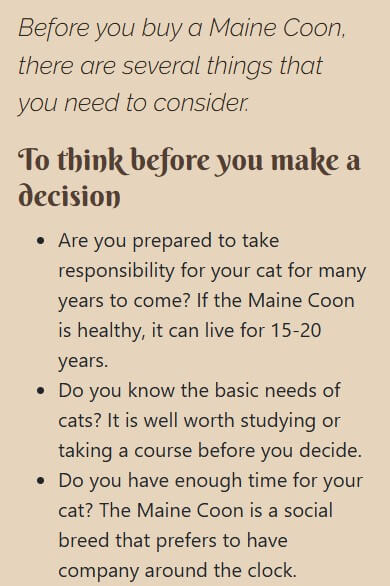
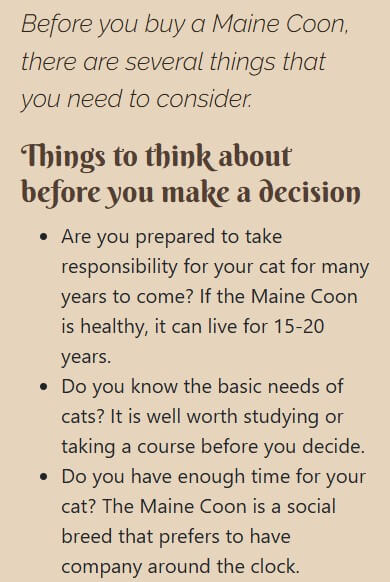
Add information to the testing section of the README file

diff --git a/before_cat.html b/before_cat.html
@@ -86,7 +86,7 @@
           <div class="row justify-content-center">
             <div class="col-12 col-lg-6">
               <p class="lead"><em>Before you buy a Maine Coon, there are several things that you need to consider.</em></p>
-              <h2>To think before you make a decision</h2>
+              <h2>Things to think about before you make a decision</h2>
               <ul>
                 <li>Are you prepared to take responsibility for your cat for many years to come? If the Maine Coon is
                   healthy, it can live for 15-20 years.</li>

diff --git a/README.md b/README.md
@@ -21,7 +21,7 @@
     * [Logo, Icons, Images and Text](#logo-icons-images-and-text)
       * [Logo](#logo)
       * [Icons](#icons)
-      * [Images](#images)
+      * [Images and Text](#images-and-text)
   * [Features](#features)
     * [Existing Features](#existing-features)
       * [Header](#header)
@@ -39,6 +39,13 @@
   * [Testing](#testing)
     * [User Story Testing](#user-story-testing)
     * [Manual Testing](#manual-testing)
+      * [Test links - navbar](#test-links---navbar)
+      * [Test icons/link - footer](#test-iconslink---footer)
+      * [Test link/button on Home Page](#test-linkbutton---home-page)
+      * [Test links Before You Buy A Cat](#test-links---before-you-buy-a-cat-page)
+      * [Test links About The Maine Coon](#test-links---about-the-maine-coon-page)
+      * [Test form - Contact Page](#test-form---contact-page)
+      * [Test form - Newsletter Page](#test-form---newsletter-page)
     * [Bugs](#bugs)
     * [Validation](#validation)
       * [HTML](#html)
@@ -51,8 +58,8 @@
   * [Deployment](#deployment)
 
   * [Credits](#credits)
-    * [Content](#content)
-    * [Media And Images](#media-and-images)
+    * [Facts](#facts)
+    * [Images](#images)
 
 ## About 
 [(Back to top)](#index--table-of-contents)
@@ -163,6 +170,7 @@ Maine Coon Facts is a site where you will find
   
   </details>
 
+
   ### Colors
 
   I wanted to use natural colors. To get an idea of what colors to use, I uploaded a picture of my Maine Coon Sunbeam to [Shutterstock's Color Palette Generator](https://www.shutterstock.com/sv/colors/color-palette-generator). In the image below, you can see the color palette that was generated after my image.
@@ -187,6 +195,7 @@ Maine Coon Facts is a site where you will find
   * Dark brown - #523E33 (on headings)
   * Light brown - #6F573C (on headings)
 
+
   ### Fonts
 
   To figure out which fonts to use, I looked around a bit on the internet for fonts. I then found [Easil's “The Ultimate Free Font Pairing List”](https://about.easil.com/free-font-pairing-guide-templates/). Here I looked through the different options that were available. I came to the conclusion that I wanted a slightly "funnier" font that stands out on the headings and an easy-to-read font on other text. The option that stuck with me was the Berkshire Swash paired with Raleway or Oswald. on headings and Raleway or Oswald on other text. The final choice was to use Berkshire Swash on all the headings and Raleway on all the other text The fonts can be found at [Google Fonts](https://fonts.google.com/).
@@ -194,6 +203,7 @@ Maine Coon Facts is a site where you will find
   [Berkshire Swash](https://fonts.google.com/specimen/Berkshire+Swash)
 
   [Raleway](https://fonts.google.com/specimen/Raleway)
+
 
   ### Logo, Icons, Images and Text
 
@@ -212,17 +222,14 @@ Maine Coon Facts is a site where you will find
   * [Facebook](https://fontawesome.com/search?q=facebook&o=r&m=free) 
   * [Instagram](https://fontawesome.com/search?q=instagram&o=r&m=free)
 
-  #### Images
+  #### Images and Text
 
   Most images are downloaded from [Pixabay](https://pixabay.com/). The exceptions are the image on the home page which is my own (an image of my Maine Coon Sunbeam) and the image on the About The Maine Coon page which is from [Free Images](https://www.freeimages.com/). A compilation of images and owners/photographers can be found under Credits.
 
   The images have been modified to fit the website (they have been compressed to take up less space and have been resized to fit it).
 
-  #### Text
+  I have found the information for the fact-rich pages on a couple of Swedish websites about the Maine Coon (See Credits). I have translated this information into English (using Google Translate to make it more accurate).
 
-  I have found the information for the fact-rich pages on a couple of Swedish websites about the Maine Coon. I have translated this information into English (using Google Translate to make it more accurate).
-
-  The text on the Before You Buy A Cat page comes from [Maine Coon Katten](https://mainecoonkatten.se/att-t-nka-p/) and the text on About The Maine Coon page comes from [Purina](https://www.purina.se/hitta-ett-husdjur/kattraser/maine-coon). 
 
 ## Features
 [(Back to top)](#index--table-of-contents)
@@ -251,6 +258,7 @@ Maine Coon Facts is a site where you will find
 
   In order to solve so that the menu toggles on small screens, I am using a JavaScript here. (The JavaScript was used in the Boardwalk Games Walkthrough)
 
+
   #### Footer
 
   The footer consists of two icons (one for Facebook and one for Instagram) and a SIGN UP FOR OUR NEWSLETTER link (goes to a page where you, via a form, can sign up for the page's newsletter).
@@ -260,6 +268,7 @@ Maine Coon Facts is a site where you will find
   On large screens (1024 px or more), the icons and link have a hover effect (their color changes). I have chosen to use the same color as in the nav bar.
 
   ![Image of the footer](docs/screenshots/footer_hover.jpg)
+
 
   #### Home Page
 
@@ -293,6 +302,7 @@ Maine Coon Facts is a site where you will find
 
   ![Image of button showing hover effect](docs/screenshots/home_page/home_button_hover.jpg)
 
+
   #### Before You Buy A Cat Page
 
   Before You Buy A Cat page consists of the following parts (besides navbar and footer): header and main.
@@ -321,6 +331,7 @@ Maine Coon Facts is a site where you will find
 
   The section is longer but I have chosen to include only two pictures of it here.
 
+
   #### About The Maine Coon Page
 
   About The Maine Coon page consists of the following parts (besides navbar and footer): header and main.
@@ -344,6 +355,7 @@ Maine Coon Facts is a site where you will find
   ![Image of About The Maine Coon page - Origin section - screens 1024px or larger](docs/screenshots/about_the_mc_page/about_the_mc_main_1024px+.jpg)
 
   After Origin, the other sections follow. But I have chosen to only include images of the first section here.
+
 
   #### Gallery Page
 
@@ -369,6 +381,7 @@ Maine Coon Facts is a site where you will find
 
   The images above show a part of the Gallery page.
 
+
   #### Contact Page
 
   Gallery consists of the following parts (besides navbar and footer): header and main.
@@ -392,6 +405,7 @@ Maine Coon Facts is a site where you will find
   There is a hover effect on the button (on larger screens). When you move the mouse pointer over it, the background and text color changes.
 
   ![Image of Contact page - form - button hover](docs/screenshots/contact_page/button_hover.jpg)
+
 
   #### Newsletter Page
 
@@ -417,6 +431,7 @@ Maine Coon Facts is a site where you will find
 
   ![Image of Newsletter page - form - button hover](docs/screenshots/newsletter_page/button_hover.jpg)
 
+
   ### Features Left To Implement
 
   There are two features that I think could be added to the site in the future.
@@ -428,11 +443,13 @@ Maine Coon Facts is a site where you will find
 ## Technologies Used
 [(Back to top)](#index--table-of-contents)
 
+
 ### Languages
 
 * [HTML5](https://en.wikipedia.org/wiki/HTML)
 * [CSS](https://en.wikipedia.org/wiki/CSS)
 * [JavaScript](https://en.wikipedia.org/wiki/JavaScript)
+
 
 ### Programs And Other Resources
 
@@ -454,8 +471,10 @@ Maine Coon Facts is a site where you will find
   * [Instagram icon](https://fontawesome.com/search?q=instagram&o=r&m=free)
   * [Paw icon](https://fontawesome.com/search?q=paw&o=r&m=free) 
 
+
 ## Testing
 [(Back to top)](#index--table-of-contents)
+
 
 ### User Story Testing
 
@@ -469,14 +488,96 @@ Maine Coon Facts is a site where you will find
 | Contact page and Footer | As a site visitor, I want it to be possible to contact the page owner so that I can get in touch with him/her if I have any questions/opinions. | The site offers a contact form where you can send a message to the site owner. There is also links to social media in the footer (a potential way to contact the site owner). | &check; |
 | Newsletter page | As a Maine Coon owner, I want it to be possible to sign up for a newsletter, where you can find out more about Maine Coons, such as advice and tips. This is to be able to gain as much knowledge as possible about the breed and cat ownership. | In the footer you can click on a Sign up for our newsletter link. The link takes you to a form where you can sign up for the newsletter. | &check; |
 
+
 ### Manual Testing
 
+
+#### Test links - navbar
+
+| Link | Action |
+|------|--------|
+| Logo | When you click on the logo you will be taken to index.html (the Home Page) |
+| BEFORE YOU BUY A CAT | When you click on BEFORE YOU BUY A CAT you will be taken to before_cat.html (Before You Buy A Cat) |
+| ABOUT THE MAINE COON | When you click on ABOUT THE MAINE COON you will be taken to about_the_mc.html (ABbout The Maine Coon) |
+| GALLERY | When you click on GALLERY you will be taken to gallery.html (Gallery) |
+| CONTACT | When you click on CONTACT you will be taken to contact.html (Contact Us) |
+
+The links in the navbar work as they should.
+
+
+#### Test icons/link - footer
+
+| Link | Action |
+|------|--------|
+| Icon Facebook | When you click on the icon, Facebook opens in a new tab or in a new window. |
+| Icon Instagram | When you click on the icon, Instagram opens in a new tab or in a new window. |
+| SIGN UP FOR OUR NEWSLETTER link | When you click on the link, you will be taken to the Newsletter page where, via a form, you can sign up for the newsletter. |
+
+The links in the footer work as they should.
+
+
+#### Test link/button - Home Page
+
+When you click on the link/button on the Home Page, you will be taken to the page where there are more facts about the Maine Coon, that is, on the About The Maine Coon page (about_the_mc.html).
+
+The link/button works as it should.
+
+
+#### Test links - Before You Buy A Cat Page
+
+| Link | Action |
+|------|--------|
+| Before You Make A Decision | When you click on the link, you will be taken to the Things to think about before you make a decision section on the page |
+| Before You Buy A Cat | When you click on the link, you will be taken to the Things to think about before buying section of the page |
+
+The links on the Before You Buy A Cat page are working properly.
+
+
+#### Test links - About The Maine Coon Page
+
+| Link | Action |
+|------|--------|
+| Origin | Link that takes you to the Origin section of the page |
+| Appearance | Link that takes you to the Appearance section of the page |
+|Personality | Link that takes you to the Personality section of the page |
+| Health | Link that takes you to the Health section of the page |
+| Nutrition And Feeding | Link that takes you to the Nutrition And Feeding section of the page |
+| Fur Care | Link that takes you to the Fur Care section of the page |
+| Child Friendliness | Link that takes you to the Child Friendliness section of the page |
+
+The links on the About The Maine Coon Page are working properly. When it comes to the last two links, clicking on them does not take you to exactly the right place on the page (depending on the type of device/screen size used). Something that I assume is due to the page being too short. In any case, the linking itself is correct also for the last two sections.
+
+#### Test form - Contact Page
+
+![Image of Contact page form](docs/screenshots/contact_page/form_768px+.jpg)
+
+If you try to send the form without filling in all the fields, you get an error message (which points to the first field that is not filled in). The error message appears regardless of which field it is that has not been filled in.
+
+![Image of Contact page form - error message - nothing filled out](docs/screenshots/contact_page/test/contact_error_message_full_name.jpg)
+![Image of Contact page form - error message -pointing to email address](docs/screenshots/contact_page/test/contact_error_message_email_address.jpg)
+![Image of Contact page form - error message -pointing to message](docs/screenshots/contact_page/test/contact_error_message_message.jpg)
+
+If you fill in all the fields and click on the Send Message button, you end up on a page (contact_confirmation.html) that shows that the message has been sent.
+
+![Image of Contact confirmation page - message](docs/screenshots/contact_page/test/contact_confirmation.jpg)
+
+#### Test form - Newsletter Page
+
+![Image of Contact page form](docs/screenshots/newsletter_page/test/newsletter_form.jpg)
+
+If you try to send the form without filling in all the fields, you get an error message (which points to the first field that is not filled in). The error message appears regardless of which field it is that has not been filled in.
+
+![Image of Contact page form - error message - nothing filled out](docs/screenshots/newsletter_page/test/newsletter_error_message_full_name.jpg)
+![Image of Contact page form - error message -pointing to email address](docs/screenshots/newsletter_page/test/newsletter_error_message_email_address.jpg)
+
+If you fill in all the fields and click on the Send Message button, you end up on a page (newsletter_confirmation.html) that shows that the message has been sent.
+
+![Image of Newsletter confirmation page - message](docs/screenshots/newsletter_page/test/newsletter_confirmation.jpg)
 
 ### Bugs
 
 
 ### Validation
-
 
 #### HTML
 
@@ -511,8 +612,10 @@ Link to the project - https://alexandrah-code.github.io/ms1-MaineCoon/
 ## Credits
 [(Back to top)](#index--table-of-contents)
 
-### Content
+### Facts
 
+  The text on the Before You Buy A Cat page comes from [Maine Coon Katten](https://mainecoonkatten.se/att-t-nka-p/).
+  The text on About The Maine Coon page comes from [Purina](https://www.purina.se/hitta-ett-husdjur/kattraser/maine-coon). 
 
-### Media And Images
+### Images
 
